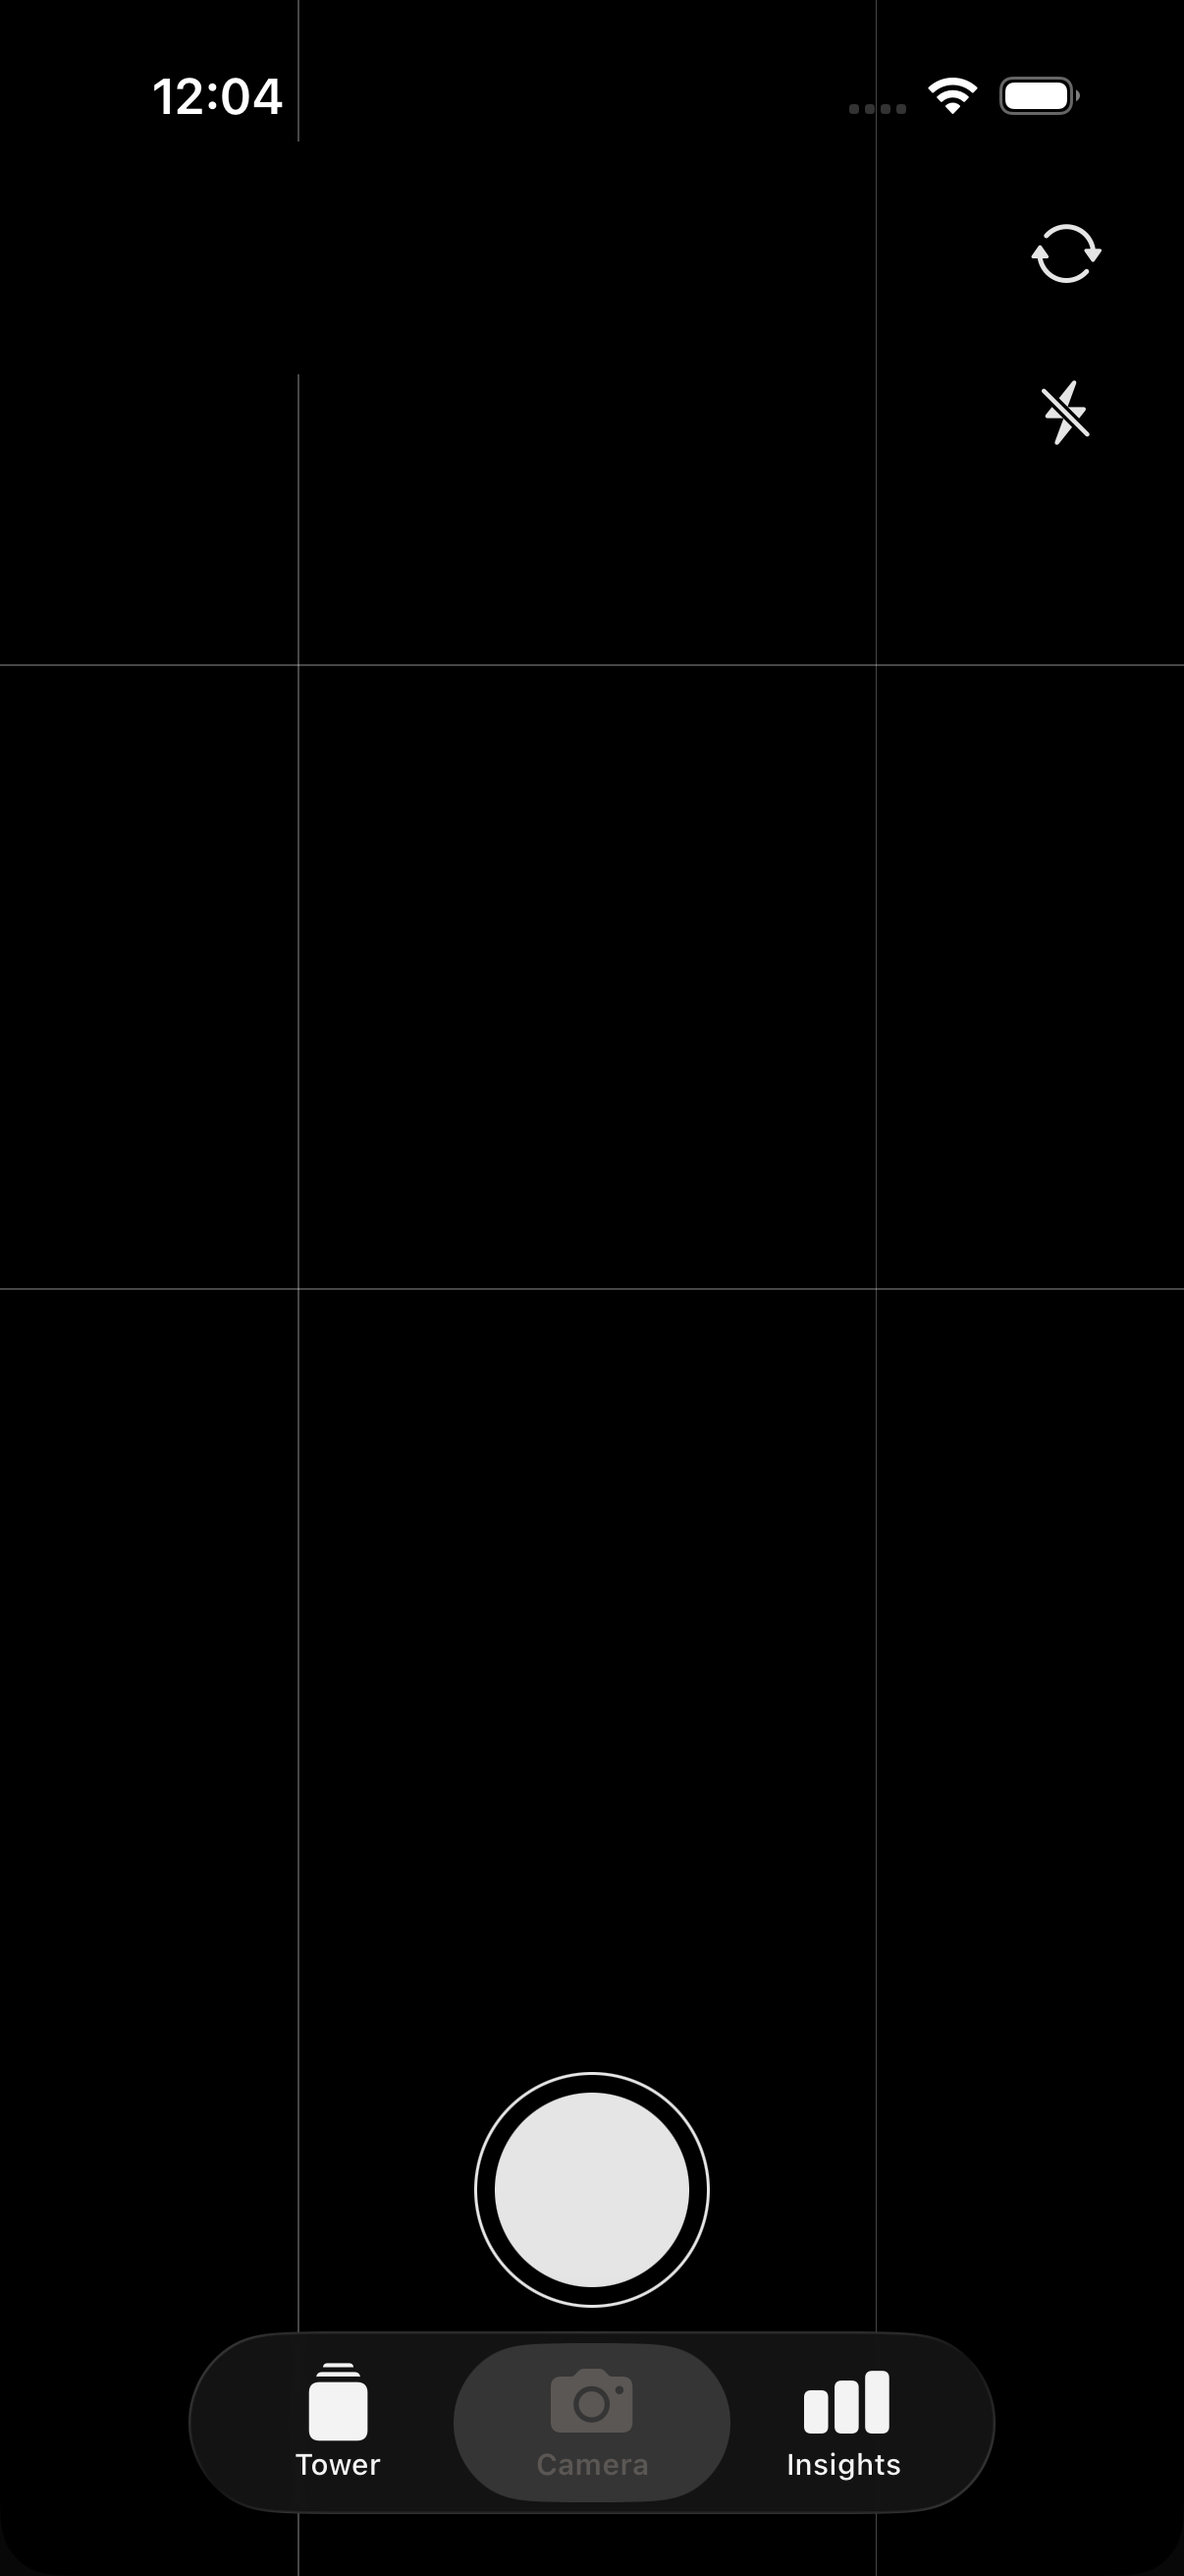
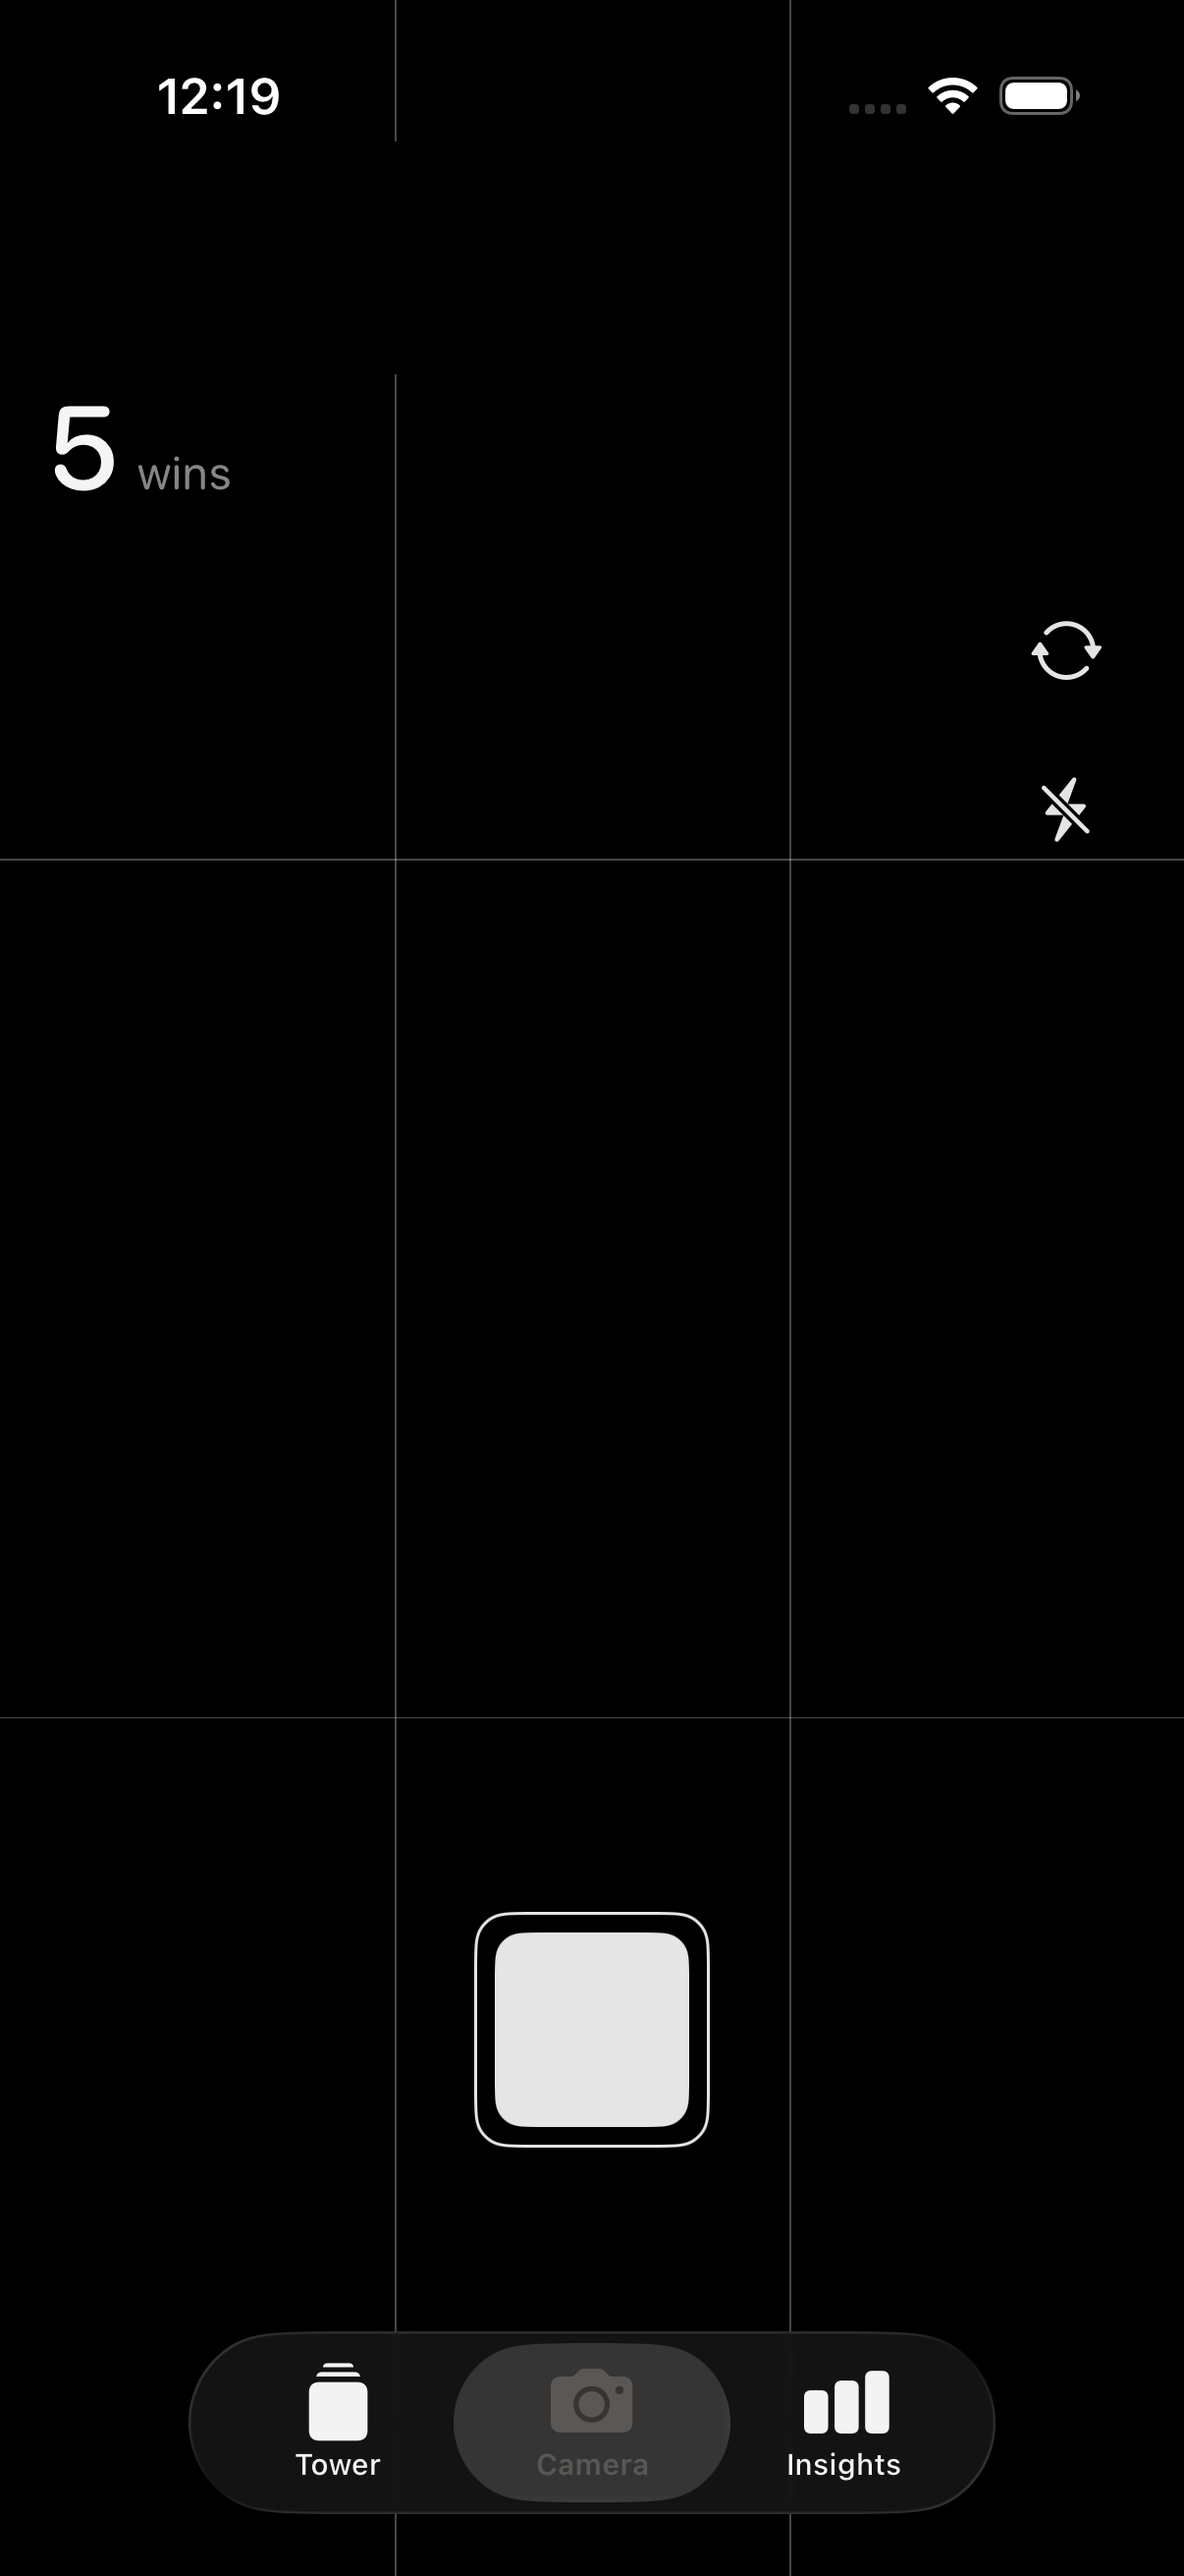
Stop the camera turning the app dark, and give it thirds and a block shutter
**One bug, two symptoms.** `CameraView` carried
`.preferredColorScheme(.dark)` so its status bar would be legible on a
black preview. Applied inside a TAB that propagates to the whole window:
`.primary` flipped to white, so the tower's "N wins" became white text
on the light background and disappeared, and the tab bar stayed dark
after leaving the camera. Both reports — wins not visible, tabs stuck —
are that one line. The app is light-only by decision and one screen does
not get to argue with it.

It turned out not to be needed: over a black preview the status bar
renders light on its own. Hiding the status bar instead was worse —
collapsing the top safe area made the tab bar draw a ghost of itself
along the top edge, which is what the earlier screenshot was showing.

**Real thirds.** The Figma had the guides at 0.25/0.74 across and
0.26/0.50 down — a designer eyeballing a grid rather than a grid, and
the cells came out different sizes. They are now exactly 1/3 and 2/3 on
both axes: the grid the iPhone camera draws, and the one anybody
composing a shot expects. Measured on screen: 0.332/0.666 across,
0.333/0.665 down.

They also have to be thirds of the SCREEN. The guides were being laid
out in the safe box, so with the tab bar taken off the bottom they came
out at 0.35 and 0.63 — not thirds, and not even symmetrical.

**The shutter is a block.** Everything this app makes is a block and
this is the button that makes one, so it is a rounded square at the
[…]

diff --git a/Strata/Views/CameraView.swift b/Strata/Views/CameraView.swift
@@ -16,6 +16,8 @@ struct CameraView: View {
     /// Hands back the captured photo. Nil means the viewer backed out.
     var onCaptured: (UIImage) -> Void = { _ in }
     var onClose: (() -> Void)? = nil
+    /// Today's count, shown in the gap the guides leave open.
+    var winCount: Int? = nil
 
     @State private var camera = CameraService()
     @State private var flashOpacity: Double = 0
@@ -28,9 +30,15 @@ struct CameraView: View {
     /// Rule-of-quarters guides. Two verticals and two horizontals, which is
     /// what the design specifies — not a full nine-cell thirds grid.
     private enum Guide {
-        static let verticalX: [CGFloat] = [0.2516, 0.7394]
-        static let horizontalY: [CGFloat] = [0.2580, 0.5000]
-        /// The break in the first vertical, left open for the logo.
+        /// Thirds, evenly. The Figma has them at 0.25/0.74 and 0.26/0.50,
+        /// which is a designer eyeballing a grid rather than a grid — the
+        /// cells came out different sizes. This is the rule of thirds the
+        /// iPhone camera draws, and it is the one everybody composing a shot
+        /// is expecting.
+        static let verticalX: [CGFloat] = [1.0 / 3.0, 2.0 / 3.0]
+        static let horizontalY: [CGFloat] = [1.0 / 3.0, 2.0 / 3.0]
+        /// The break in the first vertical, left open for the mark and the
+        /// count. Kept at the design's proportions.
         static let gapTop: CGFloat = 48.0 / 874.0
         static let gapBottom: CGFloat = 127.0 / 874.0
         static let colour = Color.white.opacity(0.28)
@@ -66,18 +74,44 @@ struct CameraView: View {
                     )
                     .ignoresSafeArea()
 
-                guides(w: w, h: h)
-                    .allowsHitTesting(false)
+                // Drawn over the whole preview, which is full-bleed — so the
+                // thirds have to be thirds of the SCREEN, not of the area left
+                // over after the tab bar. Computed against the safe box they
+                // came out at 0.35 and 0.63: not thirds, and not even
+                // symmetrical.
+                guides(
+                    w: w + geo.safeAreaInsets.leading + geo.safeAreaInsets.trailing,
+                    h: h + geo.safeAreaInsets.top + geo.safeAreaInsets.bottom
+                )
+                .offset(x: -geo.safeAreaInsets.leading, y: -geo.safeAreaInsets.top)
+                .allowsHitTesting(false)
 
                 controls(w: w, h: h, bottomInset: geo.safeAreaInsets.bottom)
+
+                if let winCount {
+                    tally(winCount, topInset: geo.safeAreaInsets.top)
+                        .allowsHitTesting(false)
+                }
 
                 warmFlash
                     .allowsHitTesting(false)
             }
         }
         .background(Color.black.ignoresSafeArea())
+        // No `.preferredColorScheme(.dark)`.
+        //
+        // It was here so the status bar would be legible on a black preview.
+        // Applied inside a tab it propagates to the WHOLE WINDOW: `.primary`
+        // flipped to white, so the tower's "N wins" became white text on the
+        // light background and vanished, and the tab bar stayed dark after
+        // leaving the camera. The app is light-only by decision and one screen
+        // does not get to argue with that.
+        //
+        // It turned out not to be needed: over a black preview the status bar
+        // renders light on its own. Hiding it instead was worse — collapsing
+        // the top safe area made the tab bar draw a ghost of itself along the
+        // top edge.
         .statusBarHidden(false)
-        .preferredColorScheme(.dark)
         .task { await camera.start() }
         .onDisappear {
             camera.stop()
@@ -119,13 +153,40 @@ struct CameraView: View {
         .frame(width: w, height: h, alignment: .topLeading)
     }
 
+    /// The count, in the gap.
+    ///
+    /// The guides leave a break in the top-left vertical, and this is what
+    /// goes in it. It sits at exactly the offset the tower's header uses — the
+    /// same 4pt below the safe area, the same horizontal padding, the same
+    /// 40pt rounded numeral — so moving between the two screens does not move
+    /// the number. It is the same fact in the same place, wearing the colours
+    /// of whichever page you are on.
+    private func tally(_ count: Int, topInset: CGFloat) -> some View {
+        HStack(alignment: .firstTextBaseline, spacing: 6) {
+            Text("\(count)")
+                .font(.system(size: 40, weight: .medium, design: .rounded))
+                .foregroundStyle(Color(white: 0.96))
+                .contentTransition(.numericText())
+            Text(count == 1 ? "win" : "wins")
+                .font(Typography.bodyMedium)
+                .foregroundStyle(Color(white: 0.96).opacity(0.55))
+            Spacer(minLength: 0)
+        }
+        // Legible over anything the lens happens to be pointing at.
+        .shadow(color: .black.opacity(0.45), radius: 8, x: 0, y: 1)
+        .padding(.horizontal, GridConstants.horizontalPadding)
+        .padding(.top, topInset + 4)
+        .frame(maxWidth: .infinity, maxHeight: .infinity, alignment: .topLeading)
+        .accessibilityElement(children: .combine)
+    }
+
     // MARK: - Controls
 
     private func controls(w: CGFloat, h: CGFloat, bottomInset: CGFloat) -> some View {
         // The design has nothing below the shutter; this screen has a tab bar.
         // Measuring up from the safe area keeps the same visual gap under the
         // button that the design has, instead of letting the tab bar sit on it.
-        let shutterCentre = h - bottomInset - shutterOuter / 2 - 34
+        let shutterCentre = h - bottomInset - shutterOuter / 2 - 52
         return ZStack(alignment: .topLeading) {
             glyphButton("arrow.triangle.2.circlepath") {
                 withAnimation(GridConstants.motionSmooth) { camera.flip() }
@@ -175,21 +236,31 @@ struct CameraView: View {
         .buttonStyle(.plain)
     }
 
-    /// A ring and a disc, as in the design: the outline is the button's edge
-    /// and the fill is the shutter itself, so pressing it can compress the
-    /// fill inside a rim that stays put.
+    /// A block, not a circle.
+    ///
+    /// Everything you make in this app is a block, and this is the button that
+    /// makes one. A circle here was a camera's shutter; a rounded square is
+    /// this app's shutter. The proportions are the block's own — the corner
+    /// radius is 14.7% of the side, the same ratio every block on the tower
+    /// uses, so it reads as the same object at a different size.
+    ///
+    /// Still a rim and a fill: the outline is the button's edge and the fill is
+    /// the shutter itself, so pressing it compresses the fill inside a rim that
+    /// stays put.
     private var shutter: some View {
-        ZStack {
-            Circle()
+        let outerRadius = shutterOuter * 0.147
+        let innerRadius = shutterInner * 0.147
+        return ZStack {
+            RoundedRectangle(cornerRadius: outerRadius, style: .continuous)
                 .strokeBorder(Color(white: 0.90), lineWidth: 1)
                 .frame(width: shutterOuter, height: shutterOuter)
 
-            Circle()
+            RoundedRectangle(cornerRadius: innerRadius, style: .continuous)
                 .fill(Color(white: 0.90))
                 .frame(width: shutterInner, height: shutterInner)
                 .scaleEffect(shutterScale)
         }
-        .contentShape(Circle())
+        .contentShape(RoundedRectangle(cornerRadius: outerRadius, style: .continuous))
         .onTapGesture { fire() }
         .accessibilityLabel("Take photo")
         .accessibilityAddTraits(.isButton)

diff --git a/Strata/Views/MainAppView.swift b/Strata/Views/MainAppView.swift
@@ -560,11 +560,16 @@ struct MainAppView: View {
     /// The camera tab. A shot here becomes a win with that photo as its face,
     /// and the tower is where you land afterwards to watch it drop.
     private var cameraTab: some View {
-        CameraView(onCaptured: { image in
-            logWin(size: .small, photo: image)
-            selectedTab = .tower
-        })
-        .ignoresSafeArea()
+        // No `.ignoresSafeArea()` here. The preview ignores it from the
+        // inside; the screen needs real insets so the shutter can be placed
+        // above the tab bar and the count below the notch.
+        CameraView(
+            onCaptured: { image in
+                logWin(size: .small, photo: image)
+                selectedTab = .tower
+            },
+            winCount: towerVM.placedBlocks.count
+        )
     }
 
     private func columnWidth(for totalWidth: CGFloat) -> CGFloat {
